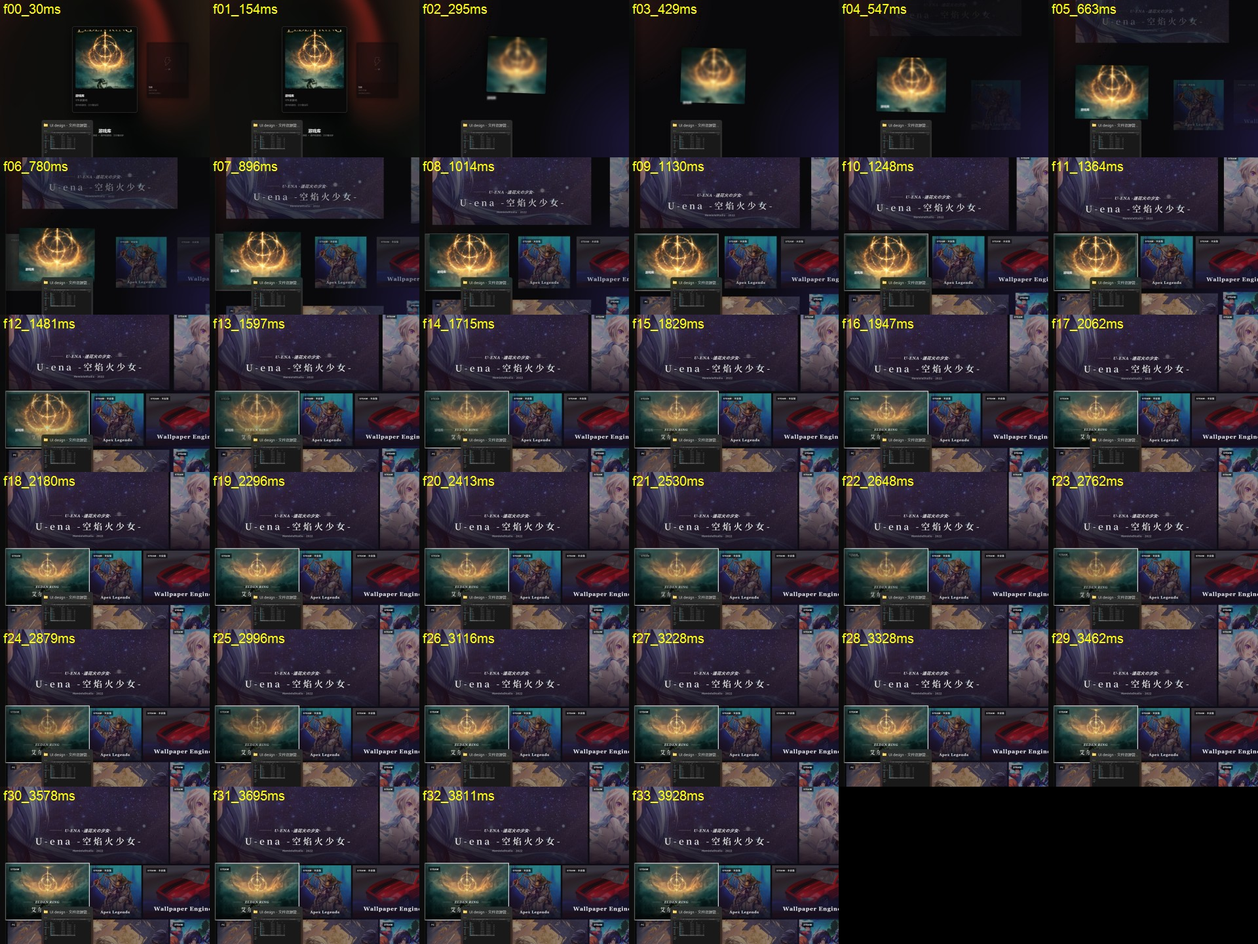
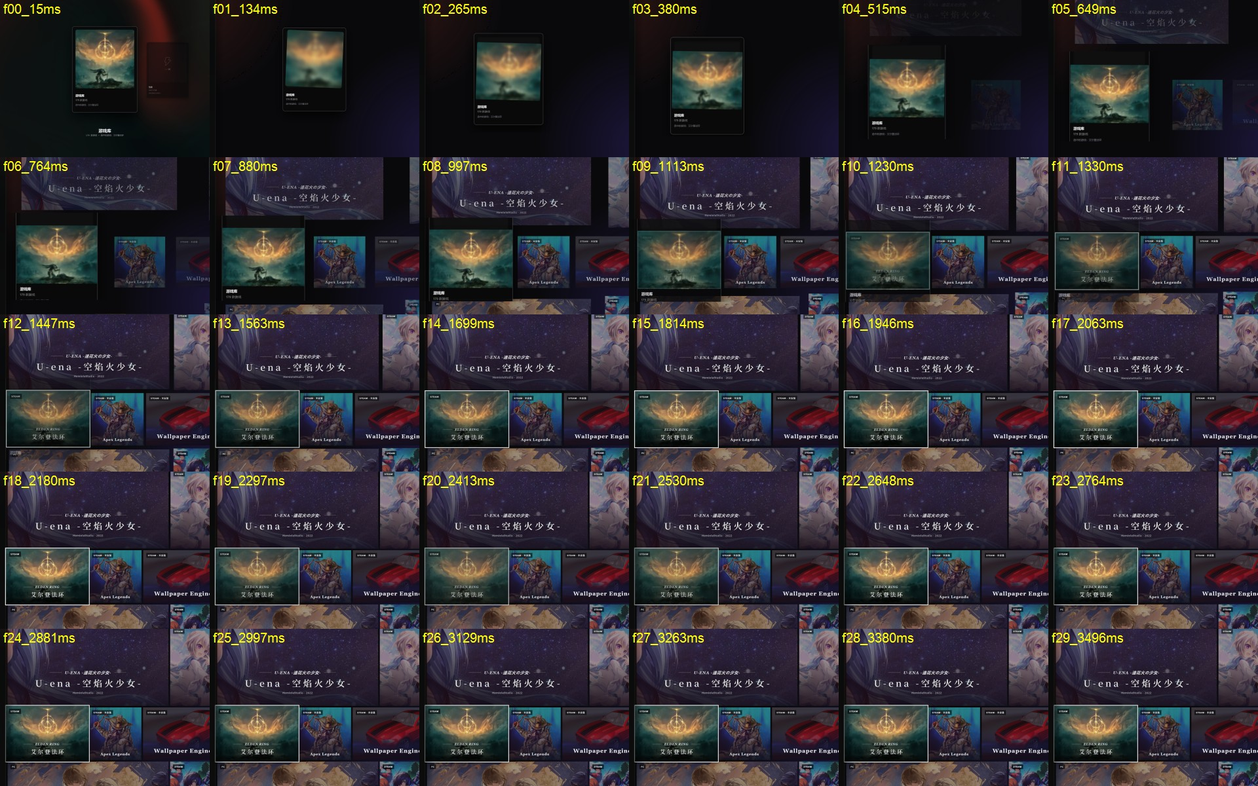
游戏库原生版：修控制中心 ⇄ 墙形变结尾「歪一下再回正」；游戏库卡封面与墙卡同一张
找到的原因（4 倍慢放逐帧 + 落定帧与真卡逐像素比对）：
- 墙卡有焦点时整张放大（每边外扩 8 px）、焦点环画在卡外，形变按卡的原始矩形算落点 → 偏 ~17 px，交接时跳
- 出场结尾照 folia 停在 1.6° / 8 px 模糊 / 0.985，然后整层撤掉 → 「歪一下被拉回」
- 弹簧有过冲，没停稳就交接；hero 卡 0.12 s 就从 0.985 放大着显出来，合成层还在半路
- 合成层的外框（LayerVisual）根本没画出来，卡的描边、小字、投影在交接时突然出现
- 卡面画面按盒子拉伸（UniformToFill / Fill 选错）、落点那张还套着模糊特效（0 模糊也会重采样发暗）
修法：
- 落点 / 起点用卡**看得见的**盒子（焦点放大 + 焦点环），卡面实时画面带上焦点环那一圈
- 位置尺寸用定长 ease-out（0.5 s），到点正好停住；转角、模糊、缩放都在落定前归零
- 外框改成游戏库卡本身的实时画面；飞行中真卡藏起来，落定后与合成层 0.1 s 交叉淡化（此刻画面相同）
- 落点那一张封面不套特效
- 游戏库卡封面 = 墙上焦点那张卡正在用的那张图（竖封面 / 方裁 / 大背景按卡尺寸挑的同一张，取高分辨率版），从正中裁
验证：落定帧 vs 真卡平均像素差 出场 1.2 / 765、进场 7 / 765（剩下的是 1 px 边缘重采样），见 docs/native-library/morph-*-compare.png

diff --git a/frontend/library-native/ClawLibrary/Stage/WallStage.ControlCenter.cs b/frontend/library-native/ClawLibrary/Stage/WallStage.ControlCenter.cs
@@ -61,6 +61,10 @@ public sealed partial class WallStage
         public string? CoverPath;
         public string Drawn = "";
         public ContainerVisual El = null!;
+        /// <summary>卡的全部内容（El 的不透明度绑着表达式，形变交接时藏 / 显卡片用这一层）。</summary>
+        public ContainerVisual Body = null!;
+        /// <summary>Body 外面再包一层：形变时藏 / 显卡片动这一层，Body 本身拿来做实时画面（VisualSurface 不受祖先透明度影响）。</summary>
+        public ContainerVisual Gate = null!;
         public SpriteVisual Face = null!, Ring = null!, ShadowBase = null!, ShadowFocus = null!, Cover = null!;
         public LoadedImageSurface? CoverRef;
     }
@@ -332,7 +336,11 @@ public sealed partial class WallStage
             b.Face = G.Sprite(G.C.CreateSurfaceBrush(), relative: false);
             b.Cover = G.Sprite(null, relative: false);
             b.Ring = G.Sprite(G.C.CreateSurfaceBrush(), relative: false);
-            foreach (var v in new Visual[] { b.ShadowBase, b.ShadowFocus, b.Face, b.Cover, b.Ring }) b.El.Children.InsertAtTop(v);
+            b.Body = G.C.CreateContainerVisual();
+            b.Gate = G.C.CreateContainerVisual();
+            b.El.Children.InsertAtTop(b.Gate);
+            b.Gate.Children.InsertAtTop(b.Body);
+            foreach (var v in new Visual[] { b.ShadowBase, b.ShadowFocus, b.Face, b.Cover, b.Ring }) b.Body.Children.InsertAtTop(v);
             // folia updateCardTransforms：t = min(|卡中心 − 视口中心| / 600, 1)；scale 1.2 → 0.5，opacity 1 → 0.15，上浮 6 px
             string T = $"Min(Abs(p.padx + {i} * p.pitch + p.half - p.off - p.vw / 2) / p.r, 1)";
             CcExpr(b.El, "Offset", $"Vector3(p.padx + {i} * p.pitch - p.off, p.top - p.lift * (1 - {T}), 0)");
@@ -644,6 +652,25 @@ public sealed partial class WallStage
         return new Box((float)(baseX + r.X * s), (float)(baseY + r.Y * s), (float)(r.Width * s), (float)(r.Height * s));
     }
 
+    /// <summary>焦点环画在卡外的那一圈（世界坐标）：形变用的实时画面和落点盒子都按它外扩。</summary>
+    private const float RingMargin = 6;
+
+    /// <summary>
+    /// 墙卡此刻**看得见**的样子在屏幕上的盒子：卡的矩形四边外扩 RingMargin（焦点环），有焦点时再按焦点放大
+    /// （透视层 scale = 1 + 16 / 尺寸，绕卡中心）。形变落点 / 起点用它，画面才和真卡逐像素对得上。
+    /// </summary>
+    private Box HeroBox(Tile t, long now)
+    {
+        var b = TileScreenBox(t, now);
+        double s = View.Scale;
+        var r = t.CurrentRect(now);
+        double sx = t.Focused && !t.Expanded ? 1 + 16 / Math.Max(1, r.Width) : 1;
+        double sy = t.Focused && !t.Expanded ? 1 + 16 / Math.Max(1, r.Height) : 1;
+        double hw = (r.Width / 2 + RingMargin) * sx * s, hh = (r.Height / 2 + RingMargin) * sy * s;
+        var c = b.Center;
+        return new Box((float)(c.X - hw), (float)(c.Y - hh), (float)(hw * 2), (float)(hh * 2));
+    }
+
     private bool OnScreen(Box b) => b.X + b.W > 0 && b.X < View.Width && b.Y + b.H > 0 && b.Y < View.Height && b.W > 4;
 
     /// <summary>墙卡的标题大致所在（电影字幕：靠下居中）。</summary>
@@ -684,18 +711,20 @@ public sealed partial class WallStage
         };
     }
 
-    private const double SpringDurMs = 720;
+    /// <summary>位置 / 尺寸的飞行：定长 ease-out，到点正好停在目标上（不用会过冲的弹簧）；落定后 0.1 s 交接给真卡片。</summary>
+    private const double FlyMs = 500, HandoffMs = 100;
+    private static readonly Bezier FlyEase = new(0.22f, 1f, 0.36f, 1f);
+    private static readonly Func<double, double> FlyCurve = t => FlyEase.Ease(t);
 
     /// <summary>形变合成层的三件套：外框（底色 + 描边 + 投影）、封面（两张图交叉淡化 + 模糊 + 转角）、标题（两行字交叉淡化 + 模糊）。</summary>
     private sealed class Composite
     {
-        public LayerVisual Frame = null!;
-        public ShapeVisual FrameShape = null!;
+        public ContainerVisual Frame = null!;
         public CompositionRoundedRectangleGeometry FrameGeo = null!;
         public ContainerVisual Cover = null!;
         public CompositionRoundedRectangleGeometry CoverGeo = null!;
         public SpriteVisual CoverA = null!, CoverB = null!;
-        public CompositionEffectBrush CoverBlurA = null!, CoverBlurB = null!;
+        public CompositionEffectBrush CoverBlurA = null!;
         public ContainerVisual Title = null!;
         public SpriteVisual TitleA = null!, TitleB = null!;
         public CompositionEffectBrush TitleBlurA = null!, TitleBlurB = null!;
@@ -734,46 +763,53 @@ public sealed partial class WallStage
     private Composite BuildComposite(object? coverA, object? coverB, string titleA, string titleB, float titleSize, float frameRadiusA, float coverRadiusA)
     {
         var c = new Composite();
-        // 外框：rounded-2xl、border、shadow 0 10 28 rgba(0,0,0,.3)、底色 = 主题底色
+        // 外框：游戏库卡本身的实时画面（卡底、描边、投影、标题、两行小字都和真卡一样），落在卡上时逐像素一致。
+        // 卡的内容画在 0..W、投影向外 80 px：源区域带上这圈，精灵按比例往外扩。
+        c.Frame = G.C.CreateContainerVisual();
         c.FrameGeo = RoundRect(1, 1, frameRadiusA);
-        var shape = G.C.CreateSpriteShape(c.FrameGeo);
-        shape.FillBrush = G.Solid(Theme.Bg);
-        shape.StrokeBrush = G.Solid(Gfx.WithAlpha(CcText, 0.10));
-        shape.StrokeThickness = 1;
-        c.FrameShape = G.C.CreateShapeVisual();
-        c.FrameShape.Shapes.Add(shape);
-        c.FrameShape.RelativeSizeAdjustment = Vector2.One;
-        c.Frame = G.C.CreateLayerVisual();
-        var sh = G.C.CreateDropShadow();
-        sh.Offset = new Vector3(0, 10, 0); sh.BlurRadius = 28; sh.Color = Gfx.Rgba(0, 0, 0, 0.3);
-        c.Frame.Shadow = sh;
-        c.Frame.Children.InsertAtTop(c.FrameShape);
+        {
+            float w = CcCardW * _ccK, h = _ccH * _ccK, m = 80 * _ccK;
+            var vs = G.C.CreateVisualSurface();
+            vs.SourceVisual = _ccBlocks[0].Body;
+            vs.SourceOffset = new Vector2(-m, -m);
+            vs.SourceSize = new Vector2(w + 2 * m, h + 2 * m);
+            c.Surfaces.Add(vs);
+            var br = G.C.CreateSurfaceBrush(vs);
+            br.Stretch = CompositionStretch.UniformToFill;
+            var sp = G.Sprite(br, relative: false);
+            sp.RelativeSizeAdjustment = new Vector2((w + 2 * m) / w, (h + 2 * m) / h);
+            sp.RelativeOffsetAdjustment = new Vector3(-m / w, -m / h, 0);
+            c.Frame.Children.InsertAtTop(sp);
+        }
         // 封面：rounded-xl 裁切，两张图叠着交叉淡化，各自带可动画的模糊
         c.Cover = G.C.CreateContainerVisual();
         c.CoverGeo = RoundRect(1, 1, coverRadiusA);
         c.Cover.Clip = G.C.CreateGeometricClip(c.CoverGeo);
-        SpriteVisual Img(object? from, out CompositionEffectBrush blur)
+        SpriteVisual Img(object? from, bool blurrable, out CompositionEffectBrush? blur)
         {
             CompositionBrush? src = null;
             if (from is Tile t && t.FaceRoot is { } face)
             {
-                // 墙卡：直接拿它卡面的实时画面（图的裁切、标题、角标都和卡片本身一样）
+                // 墙卡：直接拿它卡面的实时画面（图的裁切、标题、角标、焦点环都和卡片本身一样）；
+                // 源区域四边多带 RingMargin（焦点环画在卡外），落点盒子 HeroBox 也按同样的外扩算
                 var vs = G.C.CreateVisualSurface();
                 vs.SourceVisual = face;
-                vs.SourceSize = t.El.Size;
+                vs.SourceOffset = new Vector2(-RingMargin, -RingMargin);
+                vs.SourceSize = t.El.Size + new Vector2(2 * RingMargin);
                 c.Surfaces.Add(vs);
                 var b = G.C.CreateSurfaceBrush(vs);
-                b.Stretch = CompositionStretch.Fill;
+                b.Stretch = CompositionStretch.Fill;   // 焦点放大横竖不等比（1 + 16 / 宽、1 + 16 / 高），落点要逐像素一致只能按盒子铺满
                 src = b;
             }
             else if (from is string path && Images.AcquireReuse(path, CoverPx, CoverPx * 3 / 2) is { } s) { c.Images.Add(s); src = CoverBrush(s); }
             src ??= G.Solid(Gfx.Rgba(0x27, 0x27, 0x2a, 0.4));
-            blur = Blurred(src);
-            var v = G.Sprite(blur);
-            return v;
+            // 落点那一张不套模糊特效：落定时就是原图本身（特效哪怕模糊量是 0 也会重采样、发暗）
+            blur = blurrable ? Blurred(src) : null;
+            return G.Sprite(blur ?? src);
         }
-        c.CoverA = Img(coverA, out c.CoverBlurA);
-        c.CoverB = Img(coverB, out c.CoverBlurB);
+        c.CoverA = Img(coverA, true, out var blurA);
+        c.CoverBlurA = blurA!;
+        c.CoverB = Img(coverB, false, out _);
         c.CoverB.Opacity = 0;
         c.Cover.Children.InsertAtTop(c.CoverA);
         c.Cover.Children.InsertAtTop(c.CoverB);
@@ -813,14 +849,14 @@ public sealed partial class WallStage
         foreach (var v in new Visual[] { c.Frame, c.Cover, c.Title }) _fx?.Children.Remove(v);
         foreach (var s in c.Images) Images.Release(s);
         foreach (var s in c.Surfaces) s.Dispose();
-        foreach (var b in new CompositionBrush[] { c.CoverBlurA, c.CoverBlurB, c.TitleBlurA, c.TitleBlurB }) b.Dispose();
-        c.Frame.Dispose(); c.FrameShape.Dispose(); c.Cover.Dispose(); c.Title.Dispose();
+        foreach (var b in new CompositionBrush[] { c.CoverBlurA, c.TitleBlurA, c.TitleBlurB }) b.Dispose();
+        c.Frame.Dispose(); c.Cover.Dispose(); c.Title.Dispose();
     }
 
     /// <summary>盒子（位置 + 尺寸）按弹簧从 a 走到 b；外框 / 封面的圆角裁切几何（尺寸和圆角）跟着同一条曲线。</summary>
     private void FlyBox(Visual v, Box a, Box b, Func<double, double> curve, CompositionRoundedRectangleGeometry? geo = null, float ra = 0, float rb = 0)
     {
-        double ms = SpringDurMs;
+        double ms = FlyMs;
         v.Offset = a.Pos; v.Size = a.Size;
         v.StartAnimation("Offset", G.SampledV3(a.Pos, b.Pos, ms, curve));
         v.StartAnimation("Size", G.SampledV2(a.Size, b.Size, ms, curve));
@@ -1001,32 +1037,51 @@ public sealed partial class WallStage
         }
 
         // hero 三件套飞回游戏库卡：hero 卡面的实时画面 → 游戏库卡自己的那张图（同一张、同样 UniformToFill 居中裁）
-        var c = _composite = BuildComposite(hero.tile, _ccBlocks[0].CoverPath, "", "游戏库", 14 * k * CcMaxScale, 0, 0);
+        var heroVis = HeroBox(hero.tile, now);
+        var c = _composite = BuildComposite(hero.tile, _ccBlocks[0].CoverPath, "", "", 14 * k * CcMaxScale, 0, 0);
         // folia：返回时详情网格立刻卸掉 —— hero 和幽灵的原卡在墙上藏起来，只剩飞的那份
         hero.tile.MorphHide();
         foreach (var (t, _) in squad) t.MorphHide();
-        var spring = Spring(0.36, 0.2, SpringDurMs / 1000);
-        FlyBox(c.Frame, hero.box, homeFrame, spring, c.FrameGeo, 0, HomeFrameRadius);
-        FlyBox(c.Cover, hero.box, homeCover, spring, c.CoverGeo, 0, HomeCoverRadius);
-        FlyBox(c.Title, heroTitle, homeTitle, spring);
-        c.Frame.StartAnimation("Scale", ScaleKeys(SpringDurMs, spring, 1, 0.985f));
+        // 落点必须和真卡片一模一样，交接才看不出来（用户反馈「最后歪一下再被强制回正」）：
+        // - 位置 / 尺寸用定长的 ease-out 曲线，到点正好停在目标上（弹簧有过冲，没停稳就交接会被拽回去）；
+        // - 转角、模糊在落定之前回到 0，外框不缩（folia 原版收在 1.6° / 8 px / 0.985，这正是「歪一下」）；
+        // - 飞行期间游戏库卡本身藏着，落定后两者 0.1 s 交叉淡化（此刻画面相同）。
+        var fly = FlyCurve;
+        FlyBox(c.Frame, heroVis, homeFrame, fly, c.FrameGeo, 0, HomeFrameRadius);
+        FlyBox(c.Cover, heroVis, homeCover, fly, c.CoverGeo, 0, HomeCoverRadius);
+        FlyBox(c.Title, heroTitle, homeTitle, fly);
         var fadeOut = new Bezier(0f, 0f, 0.58f, 1f);
         bool hold = Program.Args.Contains("--morph-hold");
+        c.Cover.StartAnimation("RotationAngleInDegrees", Keys(FlyMs * 0.7, (0, 0, null), (0.45f, 3, EaseCss), (1, 0, EaseCss)));
+        foreach (var b in new[] { c.CoverBlurA, c.TitleBlurA, c.TitleBlurB })
+            b.Properties.StartAnimation("b.BlurAmount", Keys(FlyMs * 0.7, (0, 0, null), (0.45f, 1.5f, EaseCss), (1, 0, EaseCss)));
+        // 游戏库卡的那张图（和墙卡同一张）/ 标题在飞行前段淡进来
+        c.CoverB.StartAnimation("Opacity", Keys(FlyMs * 0.7, (0, 0, null), (1, 1, fadeOut)));
+        c.TitleB.StartAnimation("Opacity", Keys(FlyMs * 0.7, (0, 0, null), (1, 1, fadeOut)));
+        // 交接：游戏库卡藏到落定，然后与合成层 0.1 s 交叉淡化
+        var card = _ccBlocks[0].Gate;
+        card.Opacity = 1;
+        if (hold) card.Opacity = 0; else card.StartAnimation("Opacity", Keys(FlyMs + HandoffMs, (0, 0, null), ((float)(FlyMs / (FlyMs + HandoffMs)), 0, null), (1, 1, null)));
+        var cardCover = _ccBlocks[0].Cover;   // 外框是卡的实时画面：飞行中把卡自己的封面藏掉，免得和飞的封面叠成两张；落定那一刻显出来
+        if (hold) cardCover.Opacity = 0; else cardCover.StartAnimation("Opacity", Keys(FlyMs + HandoffMs, (0, 0, null), ((float)(FlyMs / (FlyMs + HandoffMs)), 0, null), ((float)(FlyMs / (FlyMs + HandoffMs)) + 0.001f, 1, null), (1, 1, null)));
+        // 外框（游戏库卡的画面）在墙卡那头没有对应物：起飞后前 60 % 淡进来，起点画面就是墙卡本身
+        float fe = (float)(FlyMs * 0.6 / (FlyMs + HandoffMs)), fl = (float)(FlyMs / (FlyMs + HandoffMs));
+        c.Frame.StartAnimation("Opacity", hold
+            ? Keys(FlyMs, (0, 0, null), (0.6f, 1, EaseCss), (1, 1, null))
+            : Keys(FlyMs + HandoffMs, (0, 0, null), (fe, 1, EaseCss), (fl, 1, null), (1, 0, null)));
         if (!hold)
-            foreach (var v in new Visual[] { c.Frame, c.Cover, c.Title })
-                v.StartAnimation("Opacity", Keys(ExitMs, (0, 1, null), (0.72f, 1, fadeOut), (1, 0, fadeOut)));
-        c.Cover.StartAnimation("RotationAngleInDegrees", Keys(ExitMs, (0, 0, null), (0.5f, 5, EaseCss), (1, 1.6f, EaseCss)));
-        foreach (var b in new[] { c.CoverBlurA, c.CoverBlurB, c.TitleBlurA, c.TitleBlurB })
-            b.Properties.StartAnimation("b.BlurAmount", Keys(ExitMs, (0, 0, null), (0.5f, 1, EaseCss), (1, 8, EaseCss)));
-        // 游戏库卡自己的封面 / 标题 0.35 s 淡进来（hero 那张留在下面，不淡）
-        c.CoverB.StartAnimation("Opacity", Keys(ExitMs * 0.7, (0, 0, null), (1, 1, fadeOut)));
-        c.TitleB.StartAnimation("Opacity", Keys(ExitMs * 0.7, (0, 0, null), (1, 1, fadeOut)));
+            foreach (var v in new Visual[] { c.Cover, c.Title })
+                v.StartAnimation("Opacity", Delayed(Keys(HandoffMs, (0, 1, null), (1, 0, null)), FlyMs));
 
         int v0 = _ccVersion;
-        BeginMorph(Math.Max(longest, SpringDurMs) + 30 + (hold ? 2500 : 0), () =>
+        BeginMorph(Math.Max(longest, FlyMs + HandoffMs) + 30 + (hold ? 2500 : 0), () =>
         {
             DisposeComposite();
             ClearGhosts();
+            card.StopAnimation("Opacity");
+            card.Opacity = 1;
+            cardCover.StopAnimation("Opacity");
+            cardCover.Opacity = 1;
             plate.StopAnimation("Opacity");
             plate.IsVisible = false;
             _root.StopAnimation("Opacity");
@@ -1088,38 +1143,43 @@ public sealed partial class WallStage
             t.MorphFlyIn(dir * reach / s, delay);
         }
 
-        // hero：先藏，0.12 s 后揭晓（合成层还盖在它上面）
+        // hero：飞行期间藏着，落定后与合成层 0.1 s 交叉淡化（此刻合成层显示的就是它卡面的实时画面，尺寸、圆角都一样）
+        bool hold = Program.Args.Contains("--morph-hold");   // 测试：落定后停住不交接，截图对比
         hero.tile.MorphHide();
-        hero.tile.MorphReveal(HeroRevealDelayMs);
-        var c = _composite = BuildComposite(_ccBlocks[0].CoverPath, hero.tile, "游戏库", "", 14 * k * CcMaxScale, HomeFrameRadius, HomeCoverRadius);
-        var spring = Spring(0.34, 0.16, SpringDurMs / 1000);
-        FlyBox(c.Frame, homeFrame, hero.box, spring, c.FrameGeo, HomeFrameRadius, 0);
-        FlyBox(c.Cover, homeCover, hero.box, spring, c.CoverGeo, HomeCoverRadius, 0);
-        FlyBox(c.Title, homeTitle, heroTitle, spring);
-        c.Frame.StartAnimation("Scale", ScaleKeys(SpringDurMs, spring, 0.97f, 1));
-        c.Cover.StartAnimation("Scale", ScaleKeys(SpringDurMs, spring, 0.96f, 1));
-        ScalarKeyFrameAnimation Settle(float from)
-        {
-            var a = G.C.CreateScalarKeyFrameAnimation();
-            for (int i = 0; i <= 24; i++) a.InsertKeyFrame(i / 24f, (float)(from * (1 - spring(i / 24.0))), G.Linear);
-            a.Duration = Gfx.Ms(SpringDurMs);
-            return a;
-        }
-        c.Cover.StartAnimation("RotationAngleInDegrees", Settle(2.4f));
-        c.CoverBlurA.Properties.StartAnimation("b.BlurAmount", Settle(6));
-        c.CoverBlurB.Properties.StartAnimation("b.BlurAmount", Settle(6));
-        c.TitleBlurA.Properties.StartAnimation("b.BlurAmount", Settle(3.5f));
-        c.TitleBlurB.Properties.StartAnimation("b.BlurAmount", Settle(3.5f));
-        // 目标量到（两拍 70 ms 的探测，≈ 140 ms）+140 ms：交叉淡化 0.28 s；再 +240 ms：整体 0.18 s 淡出
-        c.CoverB.StartAnimation("Opacity", Delayed(Keys(CrossfadeMs, (0, 0, null), (1, 1, EaseCss)), SettleMs));
-        c.CoverA.StartAnimation("Opacity", Delayed(Keys(CrossfadeMs, (0, 1, null), (1, 0, EaseCss)), SettleMs));
-        c.TitleA.StartAnimation("Opacity", Delayed(Keys(CrossfadeMs, (0, 1, null), (1, 0, EaseCss)), SettleMs));
-        foreach (var v in new Visual[] { c.Frame, c.Cover, c.Title })
-            v.StartAnimation("Opacity", Delayed(Keys(FadeMs, (0, 1, null), (1, 0, EaseOutCss)), FadeAtMs));
+        if (!hold) hero.tile.MorphShowAt(FlyMs, HandoffMs);
+        var heroVis = HeroBox(hero.tile, now);
+        // 游戏库卡在合成层起飞的那一刻藏起来（外框就是它的实时画面），收尾时恢复
+        var card = _ccBlocks[0].Gate;
+        card.Opacity = 0;
+        var cardCover = _ccBlocks[0].Cover;   // 外框（卡的实时画面）里不带卡自己的封面，免得和飞的封面叠成两张
+        cardCover.Opacity = 0;
+        var c = _composite = BuildComposite(_ccBlocks[0].CoverPath, hero.tile, "", "", 14 * k * CcMaxScale, HomeFrameRadius, HomeCoverRadius);
+        var fly = FlyCurve;
+        FlyBox(c.Frame, homeFrame, heroVis, fly, c.FrameGeo, HomeFrameRadius, 0);
+        FlyBox(c.Cover, homeCover, heroVis, fly, c.CoverGeo, HomeCoverRadius, 0);
+        FlyBox(c.Title, homeTitle, heroTitle, fly);
+        // 起飞时外框 0.97、封面 0.96 + 2.4° + 6 px 模糊（folia），都在落定前回到 1 / 0 / 0
+        c.Frame.StartAnimation("Scale", ScaleKeys(FlyMs * 0.7, fly, 0.97f, 1));
+        c.Cover.StartAnimation("Scale", ScaleKeys(FlyMs * 0.7, fly, 0.96f, 1));
+        c.Cover.StartAnimation("RotationAngleInDegrees", Keys(FlyMs * 0.7, (0, 2.4f, null), (1, 0, EnterBackdropEase)));
+        c.CoverBlurA.Properties.StartAnimation("b.BlurAmount", Keys(FlyMs * 0.7, (0, 6, null), (1, 0, EnterBackdropEase)));
+        c.TitleBlurA.Properties.StartAnimation("b.BlurAmount", Keys(FlyMs * 0.7, (0, 3.5f, null), (1, 0, EnterBackdropEase)));
+        // 飞行中段封面交叉淡化成 hero 卡面（同一张图，只是卡面上多了标题和角标），标题淡掉；落定时已经完全是卡面
+        c.CoverB.StartAnimation("Opacity", Delayed(Keys(CrossfadeMs, (0, 0, null), (1, 1, EaseCss)), FlyMs - CrossfadeMs - 20));
+        c.CoverA.StartAnimation("Opacity", Delayed(Keys(CrossfadeMs, (0, 1, null), (1, 0, EaseCss)), FlyMs - CrossfadeMs - 20));
+        c.TitleA.StartAnimation("Opacity", Delayed(Keys(CrossfadeMs, (0, 1, null), (1, 0, EaseCss)), FlyMs - CrossfadeMs - 20));
+        // 外框（游戏库卡的画面）在墙卡那头没有对应物：落定前淡掉，落点只剩卡面本身
+        c.Frame.StartAnimation("Opacity", Keys(FlyMs, (0, 1, null), (0.4f, 1, null), (1, 0, EaseCss)));
+        if (!hold)
+            foreach (var v in new Visual[] { c.Cover, c.Title })
+                v.StartAnimation("Opacity", Delayed(Keys(HandoffMs, (0, 1, null), (1, 0, null)), FlyMs));
 
         WallBusy(EnterMs);
-        BeginMorph(Math.Max(FadeAtMs + FadeMs, EnterMs) + 30, () =>
+        BeginMorph(Math.Max(FlyMs + HandoffMs, EnterMs) + 30 + (hold ? 2500 : 0), () =>
         {
+            if (hold) hero.tile.Cancel();
+            card.Opacity = 1;
+            cardCover.Opacity = 1;
             DisposeComposite();
             plate.StopAnimation("Opacity");
             plate.IsVisible = false;
@@ -1132,7 +1192,7 @@ public sealed partial class WallStage
             foreach (var t in _tiles.Values) t.Cancel();
         });
         UpdateBackdropRunning();
-        Log.Info($"morph enter: hero {heroItem?.Title}, {tiles.Count - 1} fly-ins");
+        Log.Info($"morph enter: hero {heroItem?.Title} box {hero.box.X:F1},{hero.box.Y:F1} {hero.box.W:F1}x{hero.box.H:F1}, {tiles.Count - 1} fly-ins");
         return true;
     }
 
@@ -1214,7 +1274,25 @@ public sealed partial class WallStage
 
     private void NoteFocusedGame(SlotKey? key)
     {
-        if (key is { } k && Engine.Geometry.SlotByKey(k) is { } s && ItemFor(s) is { } id && Lookup(id)?.Kind == ItemKind.Game) _ccGameId = id;
+        if (key is { } k && Engine.Geometry.SlotByKey(k) is { } s && ItemFor(s) is { } id && Lookup(id)?.Kind == ItemKind.Game)
+        {
+            _ccGameId = id;
+            // 记下墙上这张卡用的是哪张图（竖封面 / 方裁 / 大背景按卡的尺寸挑），游戏库卡用同一张
+            _ccGameArt = _tiles.TryGetValue(k, out var t) ? t.ArtPath : null;
+        }
+    }
+
+    private string? _ccGameArt;
+
+    /// <summary>同一张图的高分辨率版（p → q、s → x、h → g；没有就用原图）：游戏库卡放大到 1.2× 也不糊。</summary>
+    private static string? HiRes(string? path)
+    {
+        if (path == null) return null;
+        var name = Path.GetFileNameWithoutExtension(path);
+        string? hi = name switch { "p" => "q", "s" => "x", "h" => "g", _ => null };
+        if (hi == null) return path;
+        var alt = Path.Combine(Path.GetDirectoryName(path)!, hi + ".jpg");
+        return File.Exists(alt) ? alt : path;
     }
 
     private LibraryItem? SelectedGame() => (_ccGameId != null ? Lookup(_ccGameId) : null) ?? RecentGame();
@@ -1230,9 +1308,9 @@ public sealed partial class WallStage
         var lib = _ccBlocks[0];
         lib.Second = $"{games.Count} 款游戏";
         lib.Summary = recent != null ? $"选中的游戏：{recent.Title}" : "还没有游戏";
-        string? cover = null;
-        if (recent?.Art is { } art)
-            foreach (var k in new[] { 'q', 'p', 'v', 'x', 's' })   // q 在前：墙上竖卡用的就是它，多半已经解码过
+        string? cover = recent != null && recent.Id == _ccGameId ? HiRes(_ccGameArt) : null;
+        if (cover == null && recent?.Art is { } art)
+            foreach (var k in new[] { 'q', 'p', 'v', 'x', 's' })
                 if (art.Has(k)) { cover = art.File(k); break; }
         if (cover != lib.CoverPath) { CcReleaseCover(lib); lib.CoverPath = cover; }
 

diff --git a/frontend/library-native/ClawLibrary/Stage/Tile.cs b/frontend/library-native/ClawLibrary/Stage/Tile.cs
@@ -35,6 +35,8 @@ public sealed class Tile : IDisposable
     public bool Expanded { get; private set; }
     /// <summary>卡面内容的根（控制中心形变用它的实时画面当 hero 的封面，保证起落帧与卡片完全一致）。</summary>
     internal Visual? FaceRoot => _face?.Root;
+    /// <summary>卡面此刻用的那张图（控制中心的游戏库卡用同一张，同样从正中裁）。</summary>
+    internal string? ArtPath => _face?.BaseArtPath;
     public bool Focused { get; private set; }
 
     private Face? _face;
@@ -210,6 +212,19 @@ public sealed class Tile : IDisposable
         _pivot.StartAnimation("Opacity", op);
         _pivot.StartAnimation("Scale", sc);
         _animUntil = _s.NowMs + (long)(delayMs + 420) + 50;
+    }
+
+    /// <summary>形变落定：从 delay 起 dur 毫秒内淡入（不缩放，和合成层的最后一帧逐像素对齐）。</summary>
+    public void MorphShowAt(double delayMs, double durMs)
+    {
+        var op = G.C.CreateScalarKeyFrameAnimation();
+        op.InsertKeyFrame(0, 0, G.Linear);
+        op.InsertKeyFrame(1, 1, G.Linear);
+        op.Duration = Gfx.Ms(durMs);
+        op.DelayTime = Gfx.Ms(delayMs);
+        op.DelayBehavior = AnimationDelayBehavior.SetInitialValueBeforeDelay;
+        _pivot.StartAnimation("Opacity", op);
+        _animUntil = _s.NowMs + (long)(delayMs + durMs) + 50;
     }
 
     /// <summary>入场：从径向推开的位置（世界坐标）就位，透明度 0 → 1、尺度 0.94 → 1，0.5 s cubic-bezier(0.32,0.72,0,1)。</summary>
@@ -487,6 +502,8 @@ public sealed class Tile : IDisposable
         private ImageLayer? _img, _incoming;
         private ContainerVisual? _imgHost;
         public string? ItemId => _item?.Id;
+        /// <summary>这张卡用的那张图（按卡在墙上的本来尺寸挑的：竖封面 / 方裁 / 大背景）。</summary>
+        public string? BaseArtPath => _item?.Art is { } a && _baseKind is char k ? a.File(k) : null;
         private SpriteVisual? _ring1, _ring4, _ring5, _shadowCaster, _stack1, _stack2, _tint, _hilite;
         private ContainerVisual? _ring;
         private DropShadow? _shadow;
